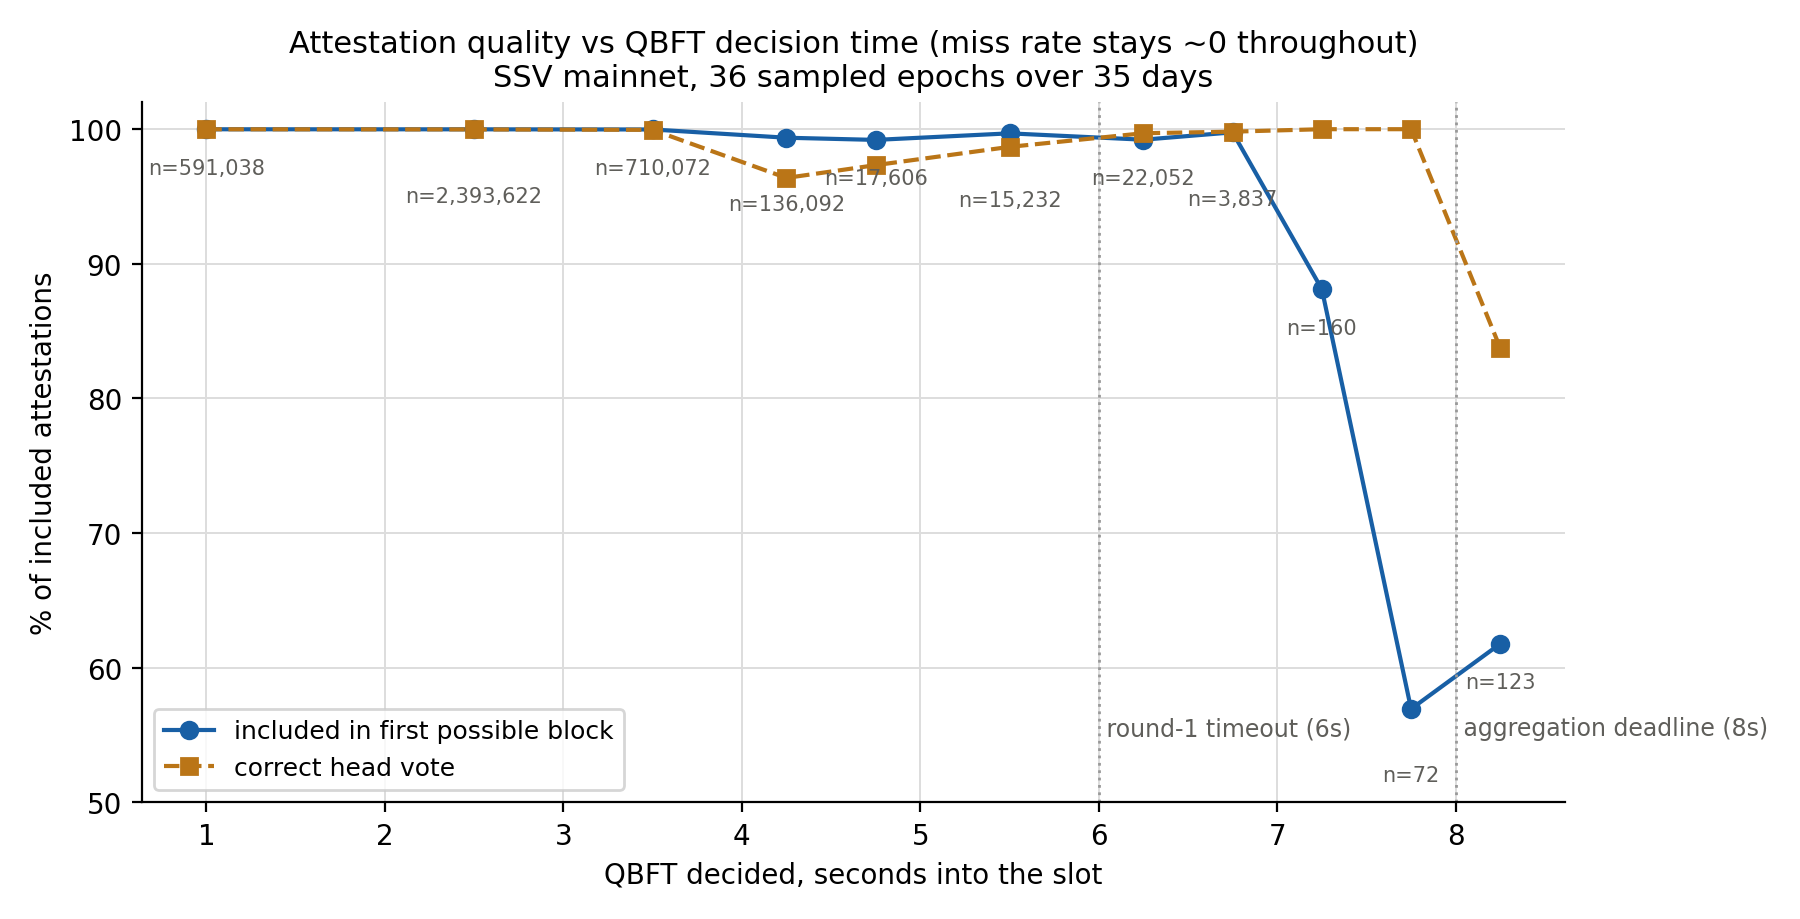
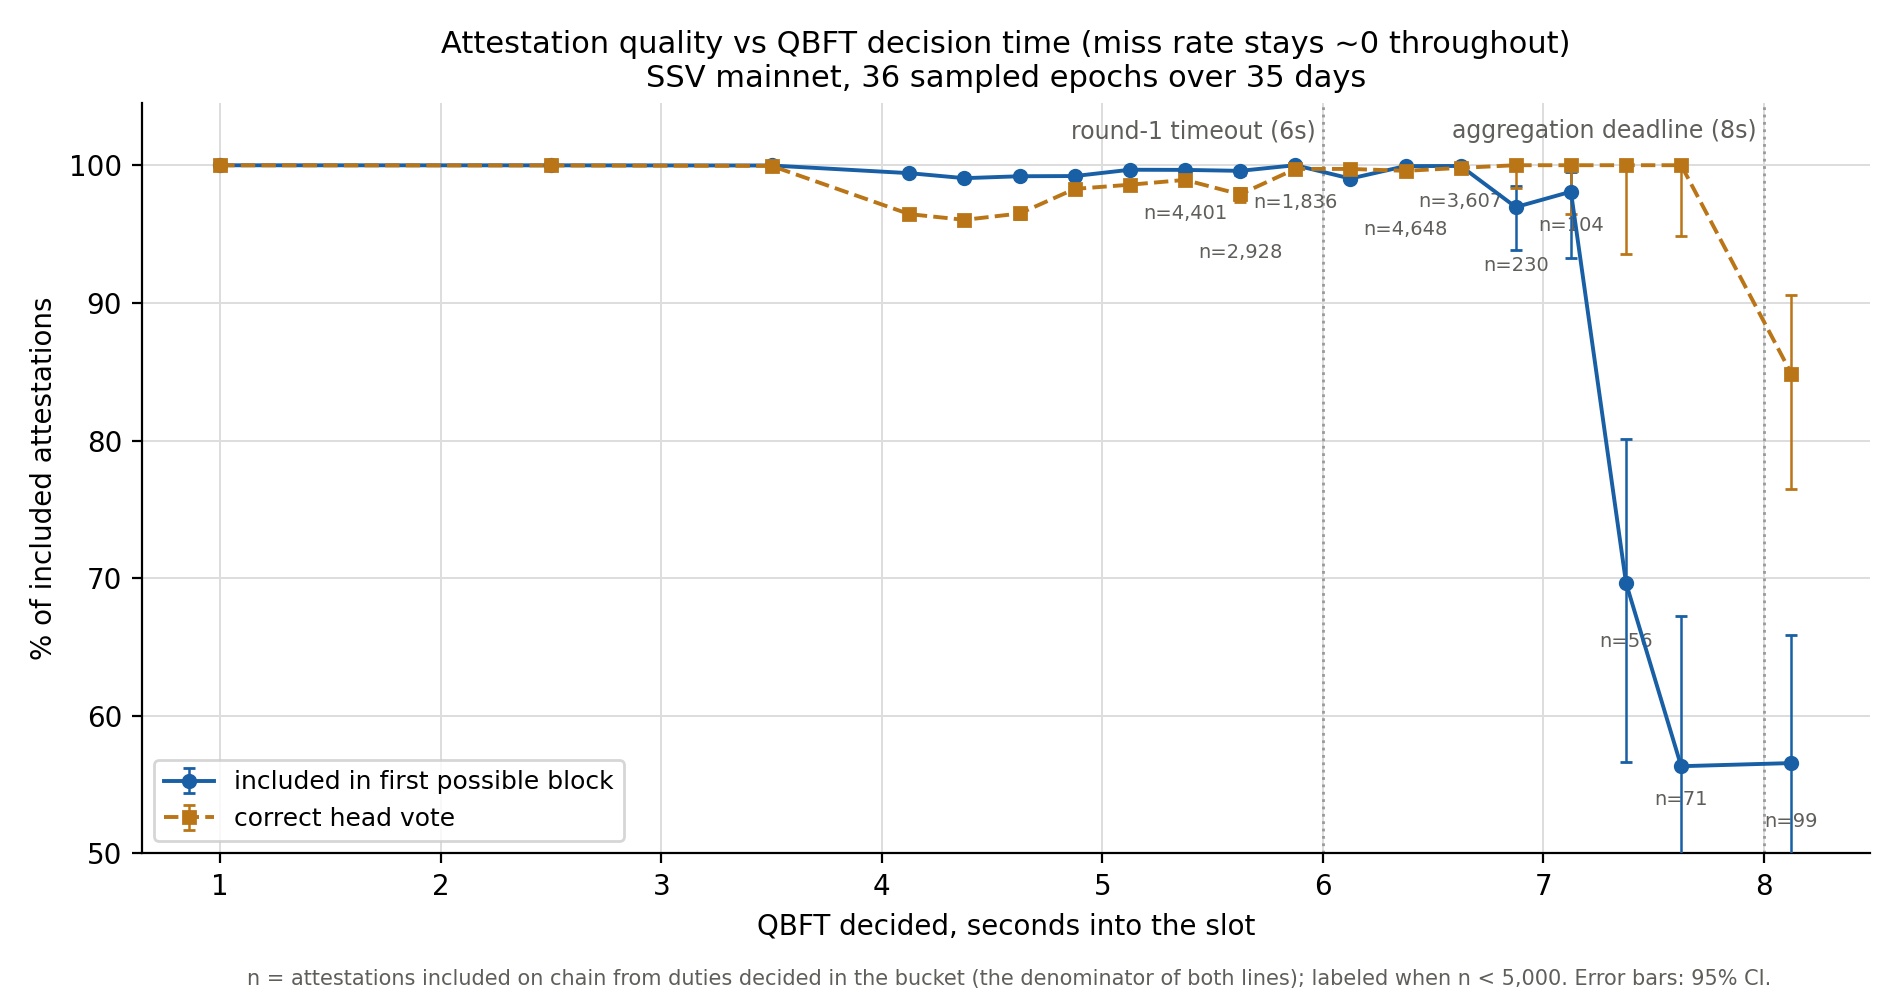
docs: higher-resolution attestation quality chart
0.25s buckets from 4s onward (the 6.5-7.5s transition was previously
hidden in 0.5s bins), Wilson 95% CI error bars on both lines, and an
in-figure definition of n (included attestations per bucket). Deadline
labels moved to the top to avoid colliding with sample-size labels.
Adjusts the one README sentence that cited the coarser buckets.

diff --git a/docs/analytics/attester/README.md b/docs/analytics/attester/README.md
@@ -17,7 +17,7 @@ What lateness does cost is **quality, not inclusion**:
 
 ![Attestation quality vs QBFT decision time](quality-vs-decision-time.png)
 
-- **Inclusion in the first possible block** holds ≥99% through 7s, then drops to 88% (7.0–7.5s), 57% (7.5–8.0s), 62% (8.0–8.5s) — late attestations increasingly miss the slot+1 aggregate but still get included a slot or two later.
+- **Inclusion in the first possible block** holds ≥97% through ~7.1s, then falls off sharply: roughly 70% at ~7.4s and ~56% past 7.5s (small samples there — see the error bars) — late attestations increasingly miss the slot+1 aggregate but still get included a slot or two later.
 - **Head-vote correctness** dips to ~96.4% for round-1 decisions at 4.0–5.0s — the "no block seen by 4s" fallback path votes for a head that often turns out stale — and *recovers to 99.6%+ for round-2 decisions at 6–7s*. The round-change retry waits long enough for the late block to arrive: **round changes heal head votes**.
 
 ## Headline numbers (sampled epochs)
